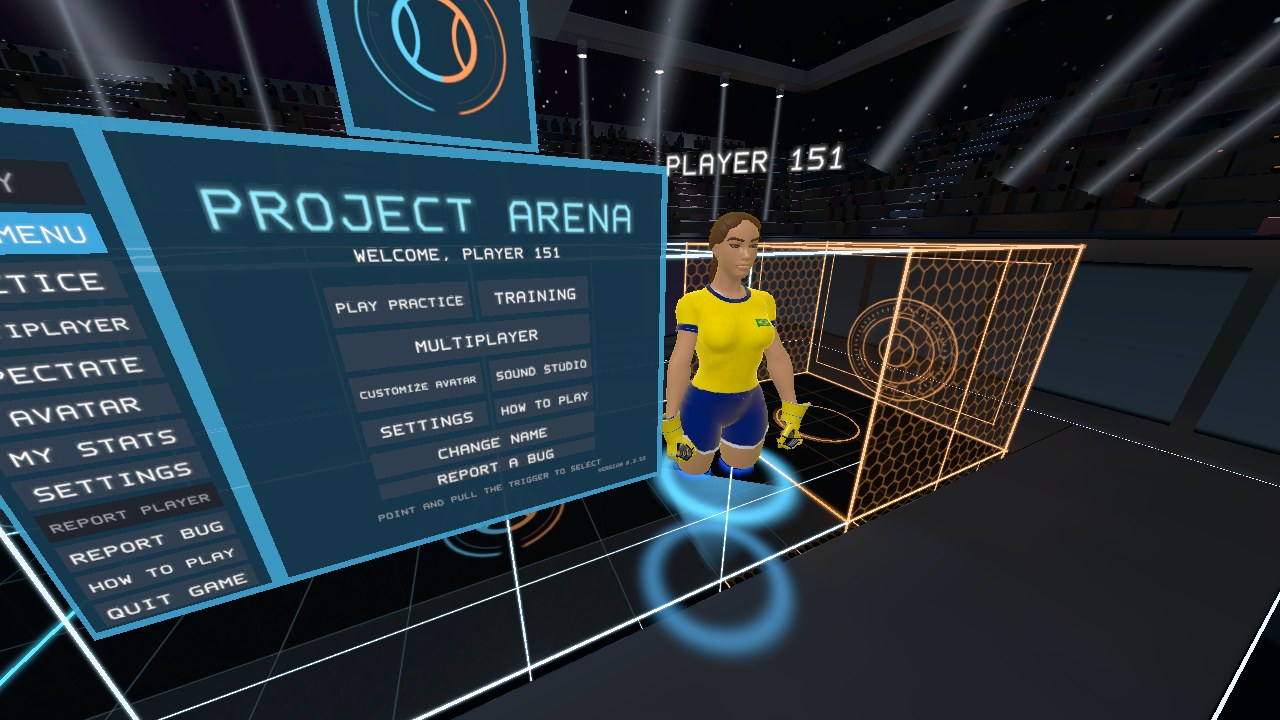
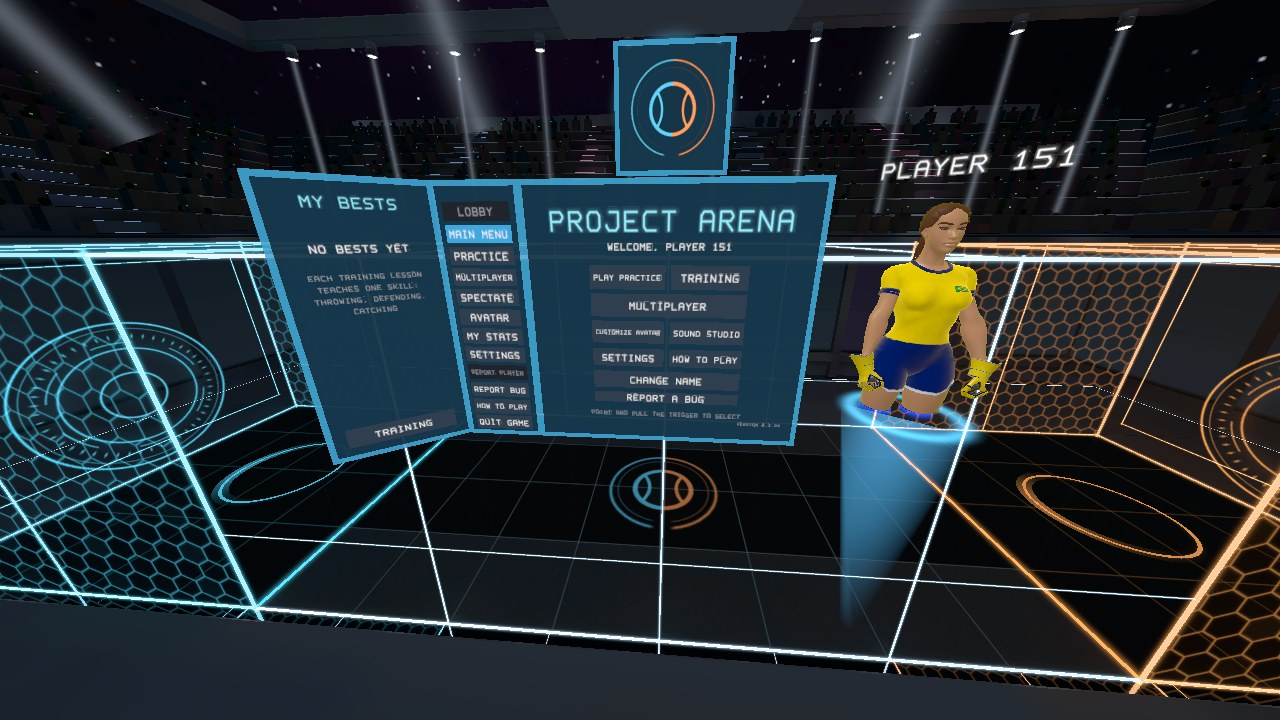
README: where to get the game to play; the title menu's picture as the game is now

diff --git a/Assets/ProjectArena/Editor/SceneShots.cs b/Assets/ProjectArena/Editor/SceneShots.cs
@@ -1120,7 +1120,7 @@ namespace ProjectArena.EditorTools
                 holder.AddComponent<MeshRenderer>().sharedMaterials = mats;
             }
             Vector3 eye2 = NativeSpace.ToUnity(head.p);
-            Vec3Look(out Quaternion rot, eye2, NativeSpace.ToUnity(Lobby.Spot + new Sim.Vec3(0.35f, 1.25f, -1.3f)));   // (the menu 1.3 m out, the figure at its right: native 1159a46)
+            Vec3Look(out Quaternion rot, eye2, NativeSpace.ToUnity(Lobby.Spot + new Sim.Vec3(-0.1f, 1.2f, -1.3f)));   // (the menu 1.3 m out, MY BESTS at its left, the figure at its right: native 1159a46)
             Shot("showcase", eye2, rot, 90f, draw: Title);
 
             // the builder opened on the balcony (a Quest 3, 2026-11-14: opened from the menu, no reflection to see): facing the

diff --git a/README.md b/README.md
@@ -2,6 +2,11 @@
 
 **Not the official Project Arena: a starting point for your own version.**
 
+**Just want to play?** Get the official game: [on Meta Quest](https://www.meta.com/experiences/1342896058915258/),
+or the Quest APK and PC VR builds from [Project Arena's releases](https://github.com/jendoebelin/ProjectArena-public/releases/latest)
+([how to install](https://github.com/jendoebelin/ProjectArena-public/blob/main/docs/INSTALL.md)). This repository has
+no builds to download: it's the game's source in Unity, for making your own version or seeing how it works.
+
 A free, open-source VR court sport for **Meta Quest** and **PC VR**, built in **Unity**. Two players face each other in a
 glass arena and throw, curve, catch and punch glowing energy balls. Hit your opponent to score; a charged ball raises
 your shield; send a ball through their ring for a strike.
@@ -19,7 +24,7 @@ so your headset and theirs meet in the same arena rooms, on the LAN or on the co
 | ![A player in the CIRCUIT suit](docs/images/player.jpg) | ![Avatars: countries, faces, hair, headgear](docs/images/avatars.jpg) |
 | **Your avatar:** suits, builds, faces, hair that moves, headgear, face shields, masks, gauntlets, patterns and colours, or your country's team kit | **Countries:** 205 flags; a country's kit, its flag on your back and its colours on your end of the court |
 | ![The avatar builder and its mirror](docs/images/builder.jpg) | ![The title menu with your avatar](docs/images/title.jpg) |
-| **The avatar builder:** a mirror that copies you, a panel on each side | **The title menu** in the lobby, your avatar on its pedestal |
+| **The avatar builder:** a mirror that copies you, a panel on each side | **The title menu** in the lobby: your TRAINING bests on its left, your avatar beside it |
 | ![The multiplayer page](docs/images/multiplayer.jpg) | ![The spectator hub](docs/images/spectator_hub.jpg) |
 | **Multiplayer:** host a room or join one; queue for the tank; voice chat | **Spectating:** every live arena in miniature; point at one to watch it |
 | ![Director tools](docs/images/director_tools.jpg) | ![The crowd in the stands](docs/images/crowd.jpg) |
@@ -57,8 +62,9 @@ Give your version its own name. Please don't present it as the official Project 
 
 ## What's in it
 
-- **Play the bot:** practice against a bot, Basic or Advanced rules, with MATCH OPTIONS: shields on or off (HOTDOG
-  MODE), knuckle guards, the match or round time.
+- **Play the bot:** practice against bots in the room you choose (SQUARE, DIAMOND, FOUR CORNERS for four players,
+  FIREBALL BLITZ), with its options: shields on or off (HOTDOG MODE), knuckle guards, the time, the foul line and more.
+- **TRAINING:** lessons that each teach one skill (throwing, defending, catching); MY BESTS keeps your bests.
 - **The lobby:** a balcony over the court with the menu, your TRAINING bests and your avatar beside it, and two bots playing below.
 - **Avatars and the builder** (pictures above).
 - **Multiplayer:**
@@ -68,7 +74,7 @@ Give your version its own name. Please don't present it as the official Project 
     host's kick.
 - **Career statistics on the server:** MY STATS, with DELETE MY STATS.
 - **Spectating:** the hub of live arenas, the gallery seat, and the director tools.
-- **The Crowd:** fans on their phones cheer and wave flags in the stands.
+- **The Crowd:** fans following on their phones wave flags in the stands, and the arena's lights flare when they cheer.
 - **REPORT A BUG** from inside the game.
 
 ## Where things are
